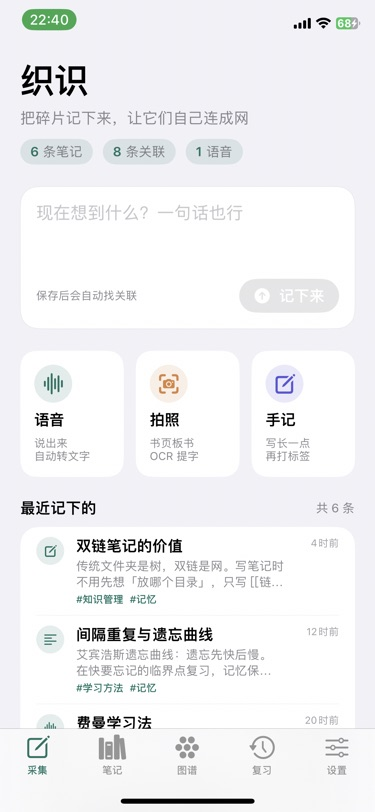
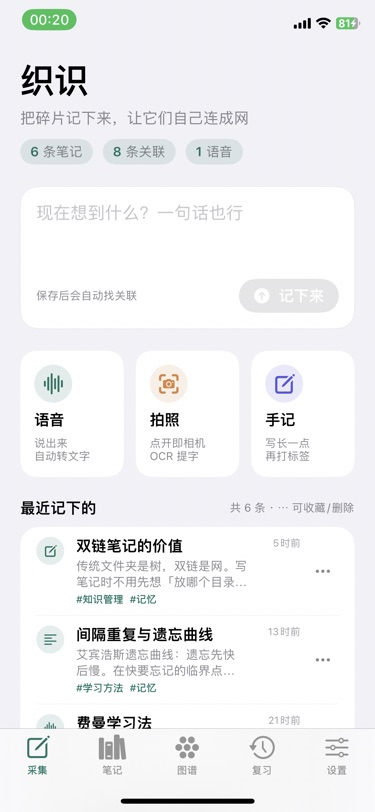
docs: 更新首页截图为带⋯操作入口的版本，补设置页截图，忽略全部 dist 目录

diff --git a/README.md b/README.md
@@ -14,9 +14,9 @@
 |---|---|---|
 | <img src="docs/shots/01-home.png" width="240"> | <img src="docs/shots/02-note.png" width="240"> | <img src="docs/shots/03-graph.png" width="240"> |
 
-| 语音实时转写 | 复习 |
-|---|---|
-| <img src="docs/shots/04-voice.png" width="240"> | <img src="docs/shots/05-review.png" width="240"> |
+| 语音实时转写 | 复习 | 设置（模型/Key） |
+|---|---|---|
+| <img src="docs/shots/04-voice.png" width="240"> | <img src="docs/shots/05-review.png" width="240"> | <img src="docs/shots/06-settings.png" width="240"> |
 
 > 以上均为 iPhone（iOS 16.7.16）真机截图，非模拟器。
 
